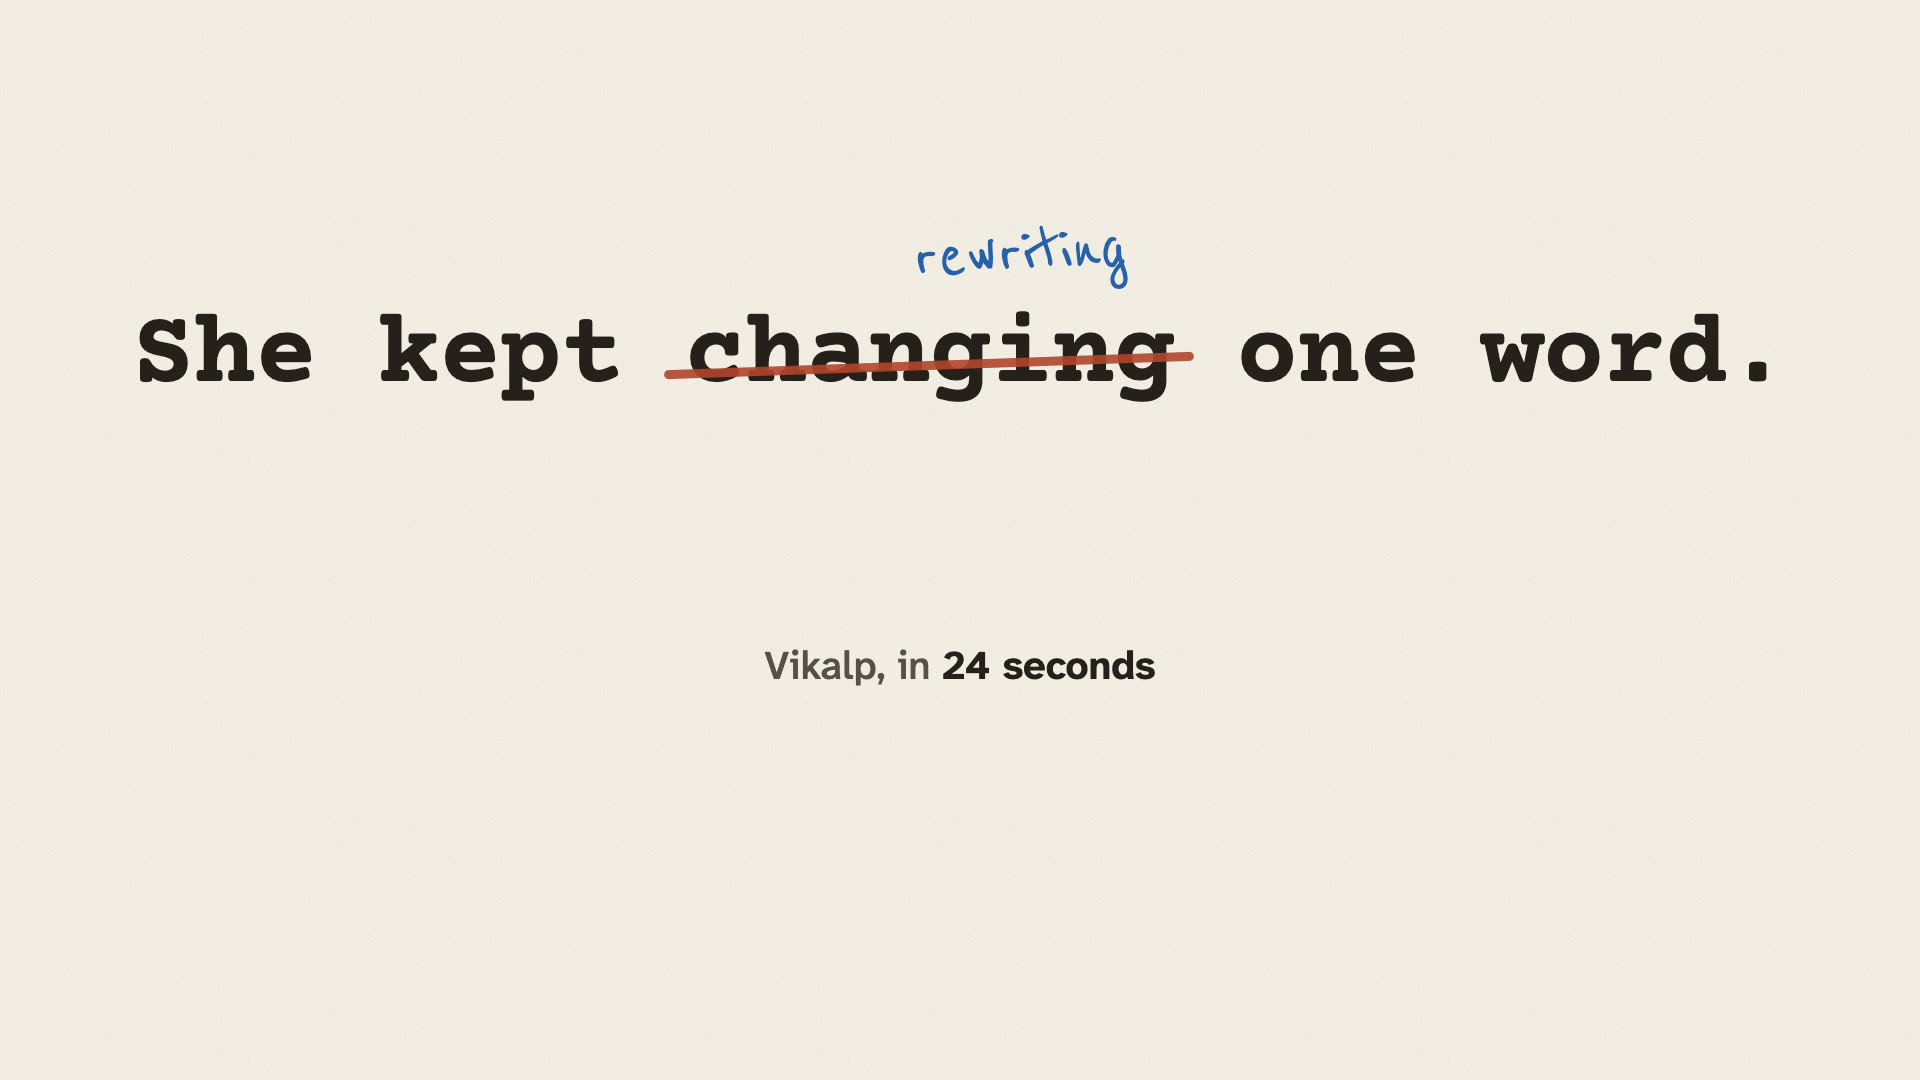
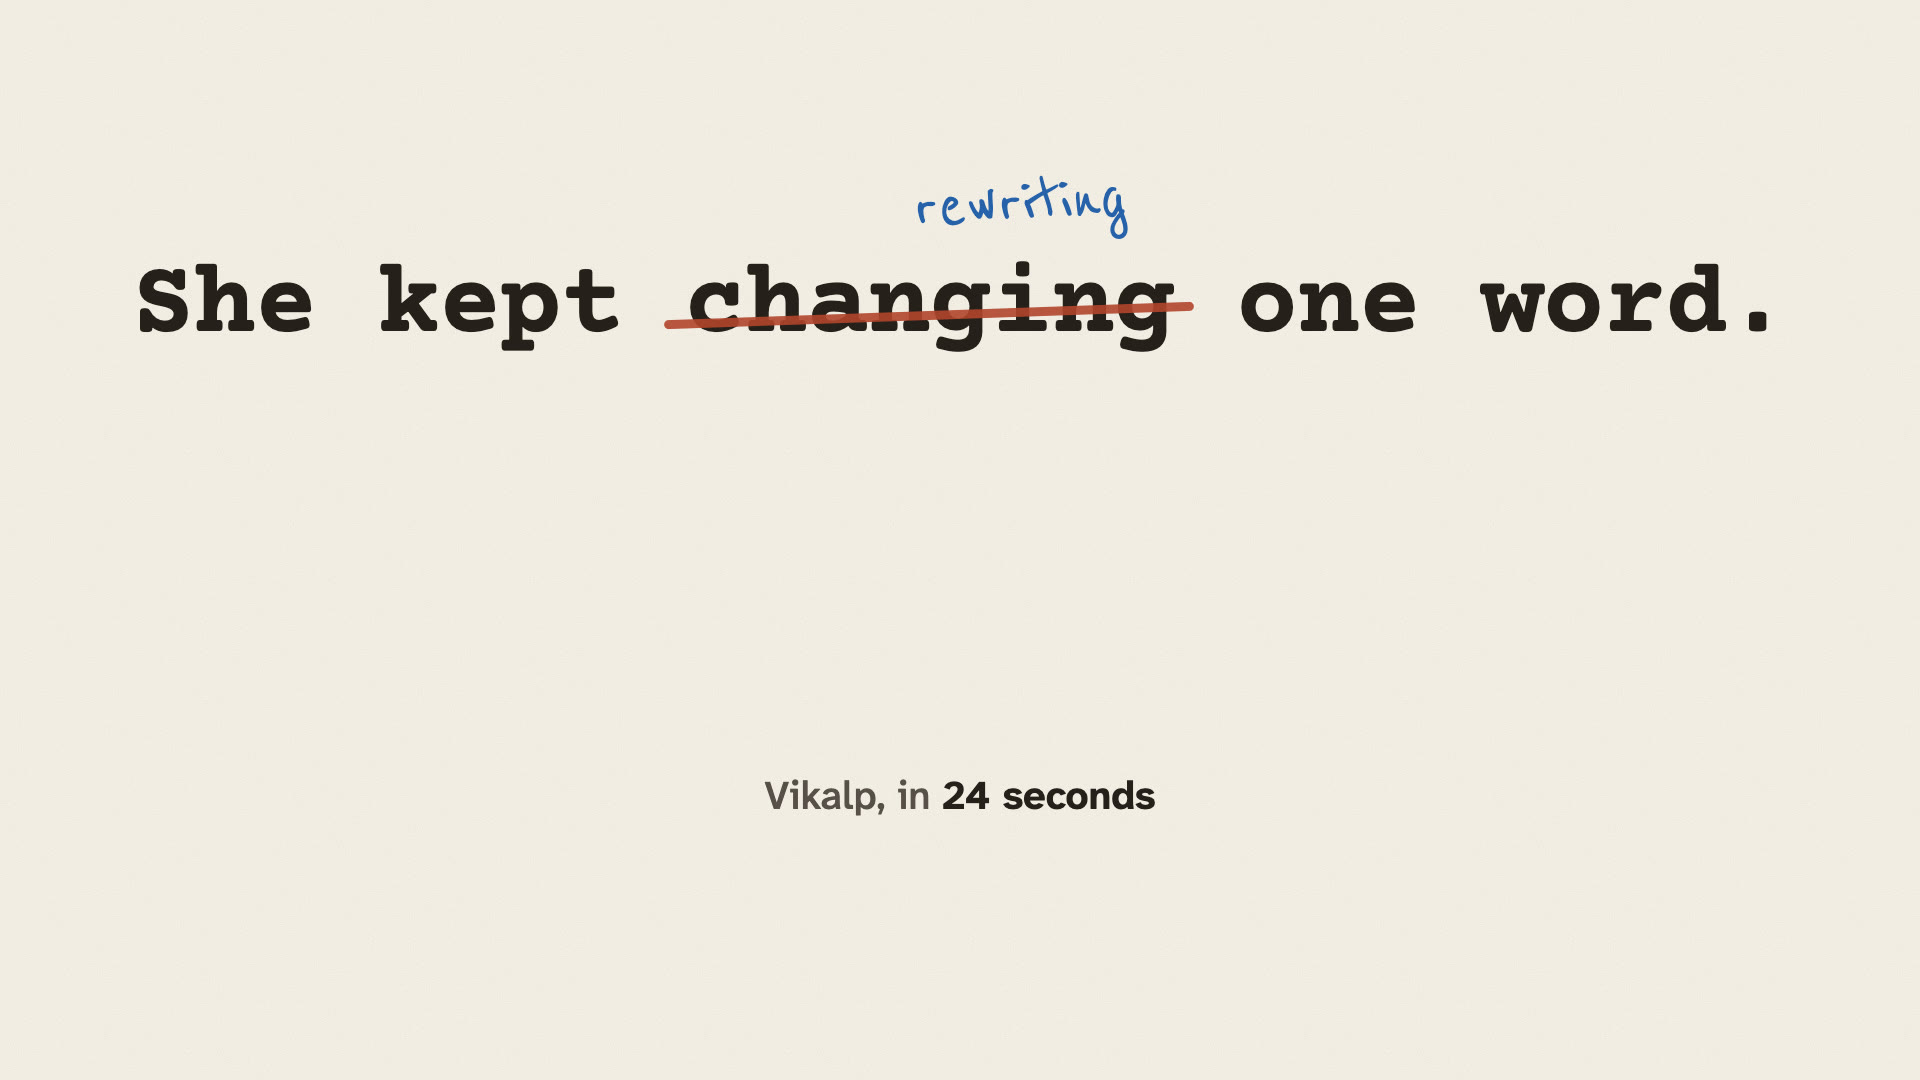
Give the phone poster room for a bigger play button

Changed region(s): [[0.0625, 0.1528, 0.9375, 0.3667], [0.4062, 0.7028, 0.625, 0.7639], [0.4062, 0.6111, 0.625, 0.6417]]

diff --git a/site/style.css b/site/style.css
@@ -491,6 +491,6 @@ footer a:hover { color: var(--ink); text-decoration-color: var(--blue); }
 /* a phone-sized poster has little room between its title and its subtitle */
 @media (max-width: 640px) {
   .trailer { padding-bottom: 56px; }
-  .trailer-play { width: 40px; height: 40px; }
-  .trailer-play svg { width: 18px; height: 18px; margin-left: 2px; }
+  .trailer-play { width: 60px; height: 60px; }
+  .trailer-play svg { width: 24px; height: 24px; margin-left: 3px; }
 }
